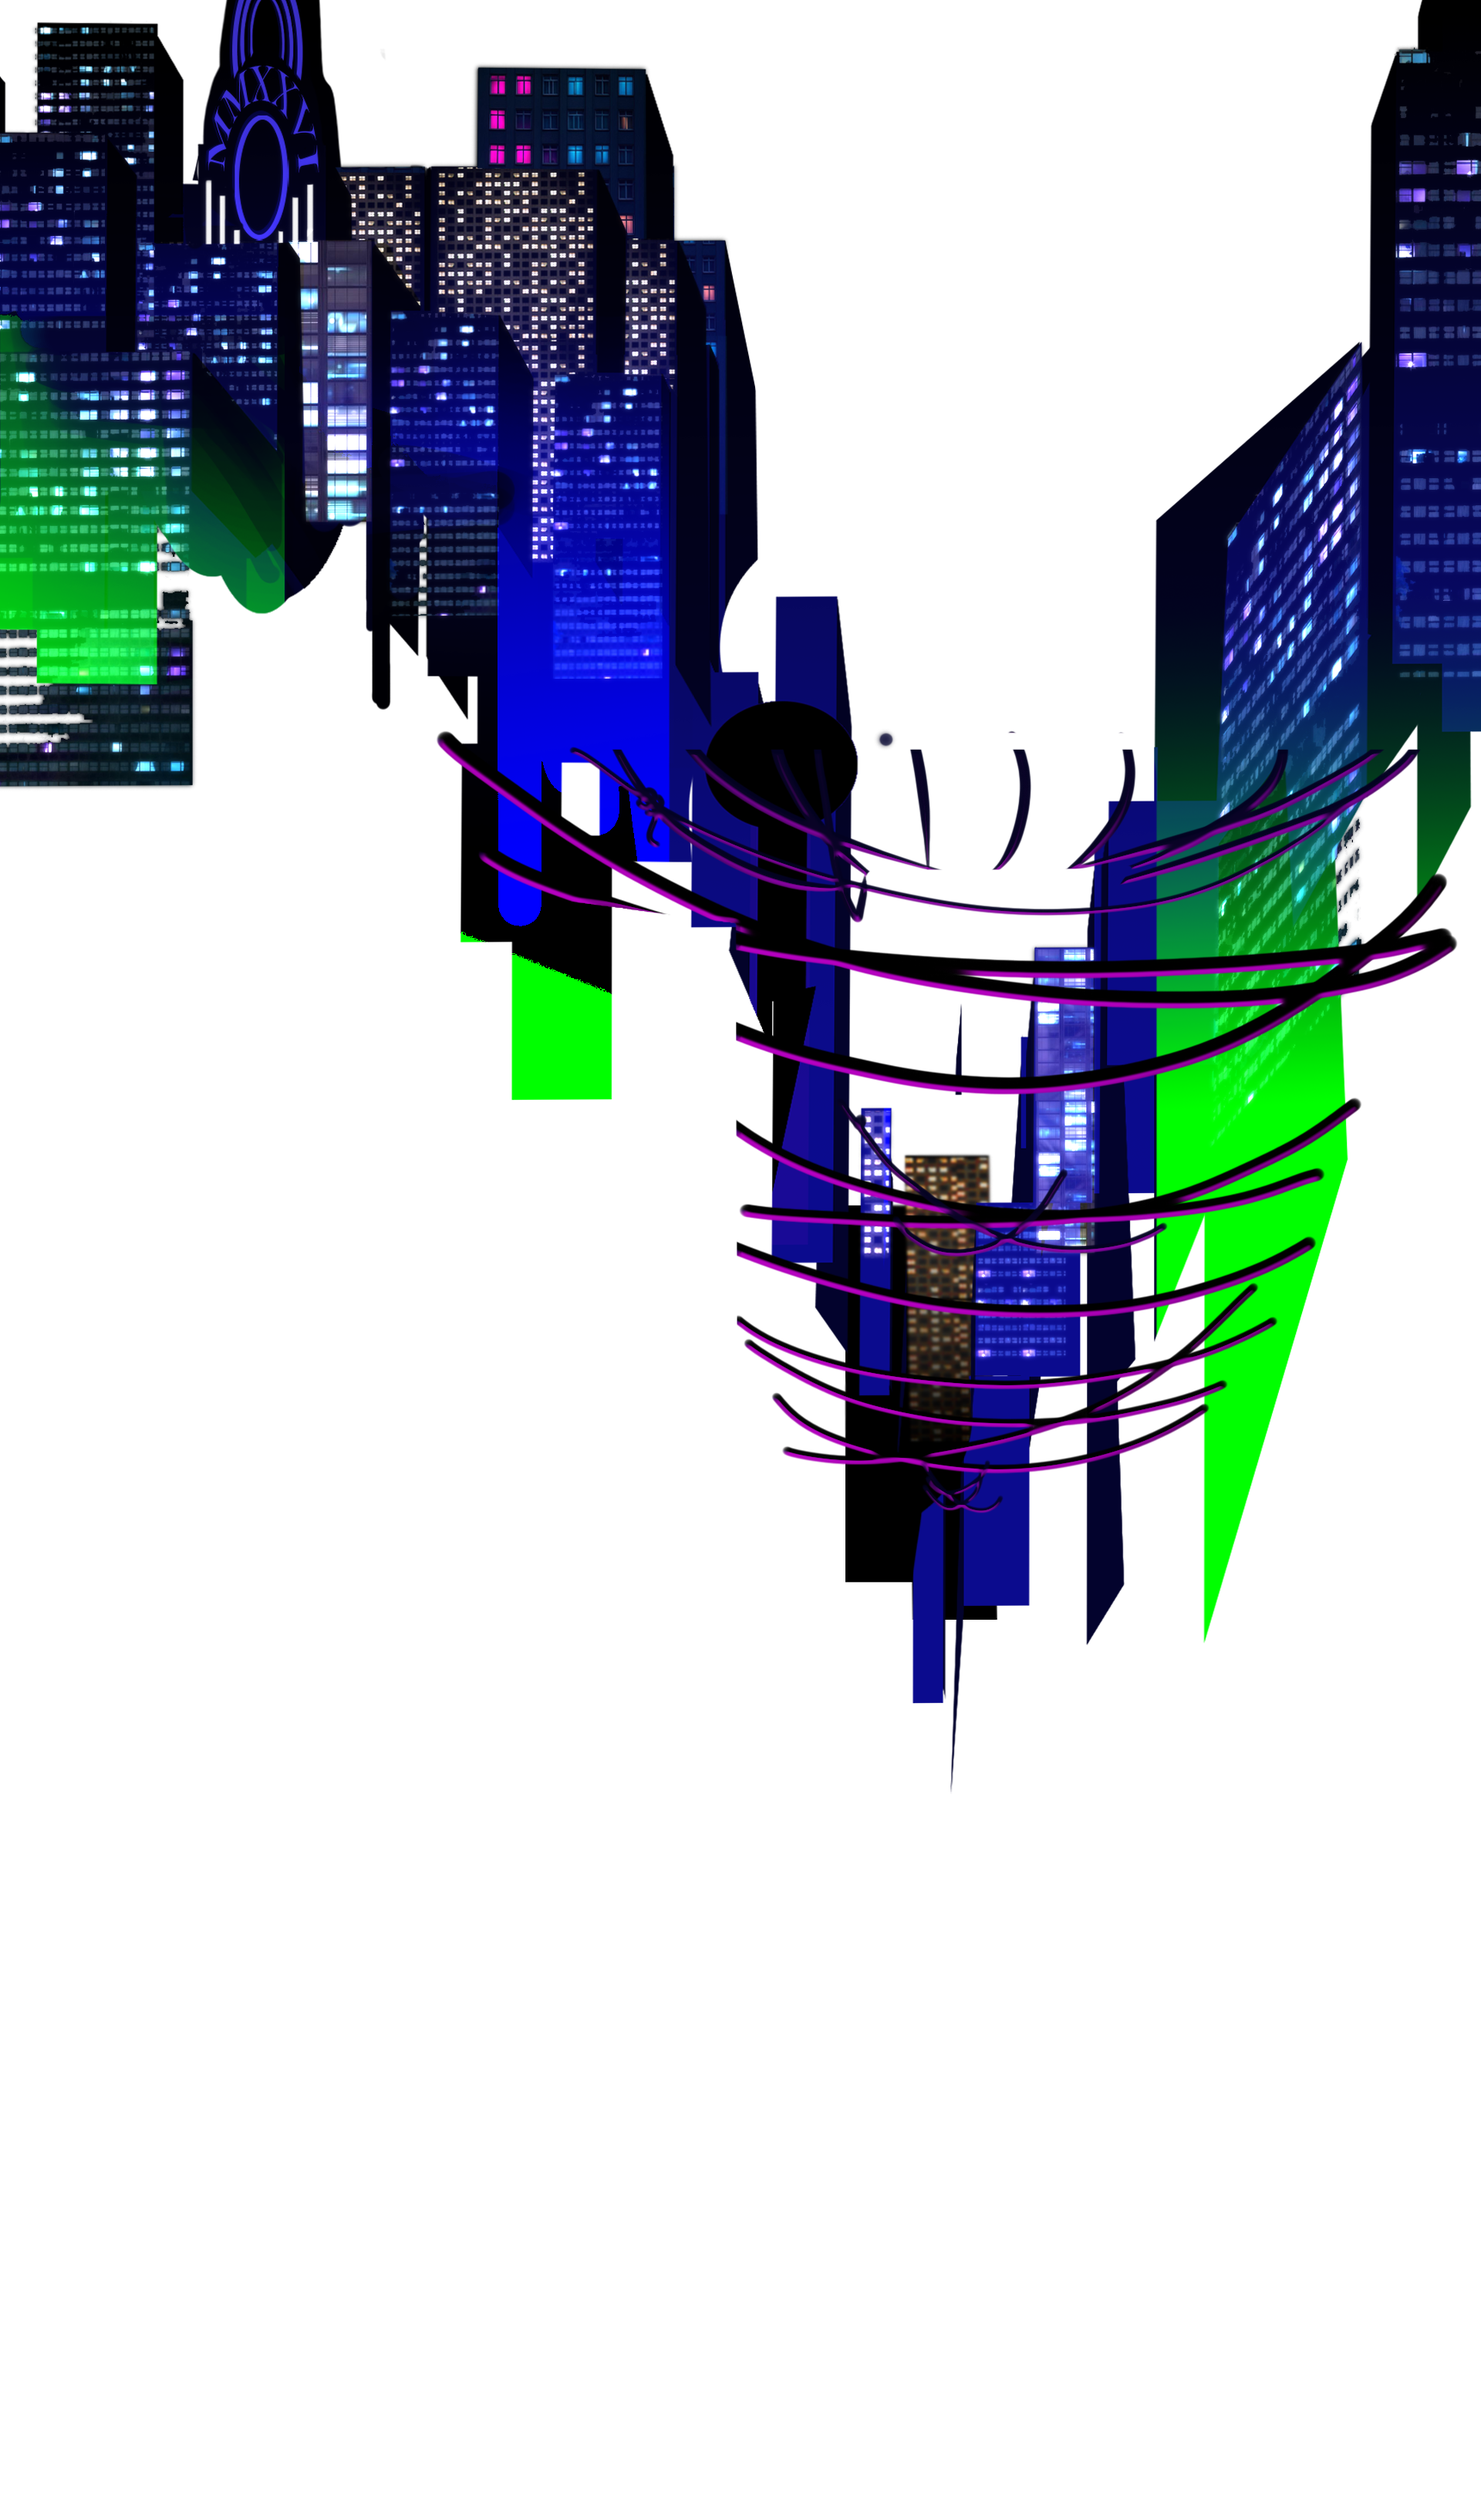
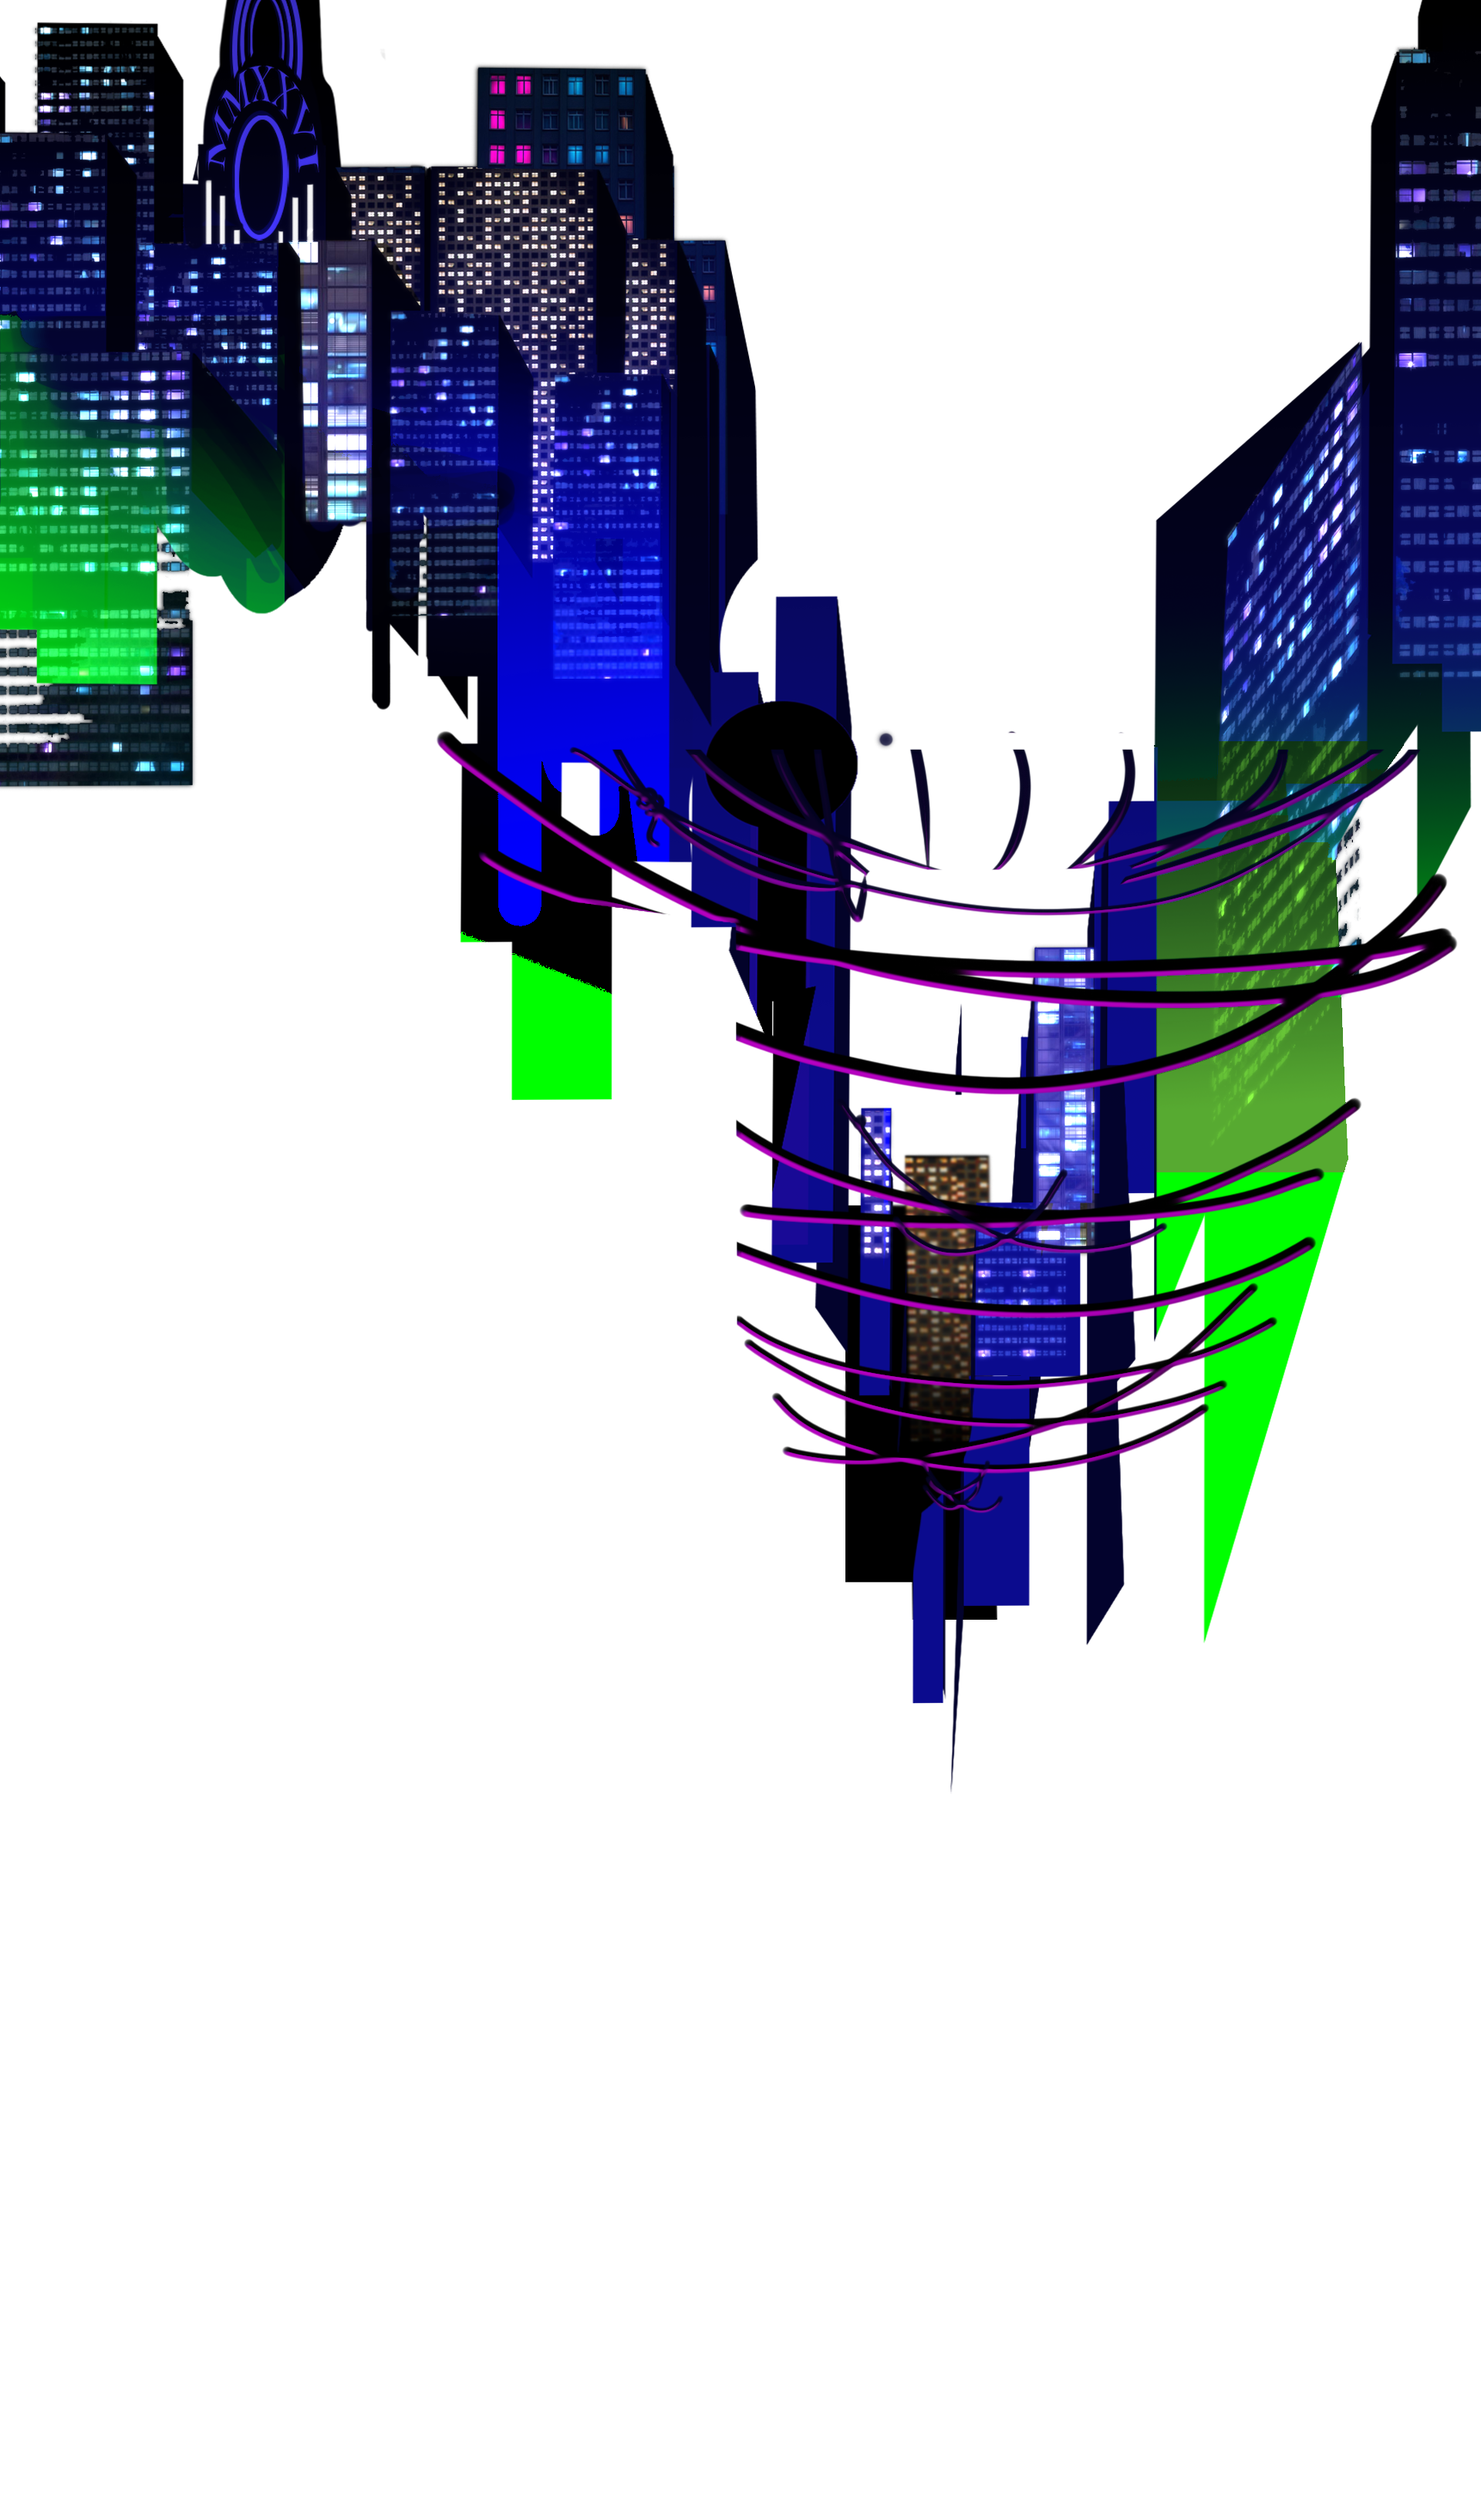
Paint the alley's green tower opaque and drop the keynote section

Changed region(s): [[0.7812, 0.2806, 0.9375, 0.4676]]

diff --git a/app/globals.css b/app/globals.css
@@ -814,85 +814,6 @@ textarea,
 }
 
 /*
- * The decorative frame around the keynote card.
- *
- * `border-image` rather than a stretched overlay. The art is 1407x941 with a
- * hollow middle and a border that is not uniform - 139px along the top, 111 at
- * the sides, 99 underneath - and its corners carry the shapes that make it read
- * as a HUD panel. Painting it as one stretched picture would smear those
- * corners and squash the hatching the moment the card was not the plate's own
- * 1.495 aspect, which it never is: the copy sets the height.
- *
- * Sliced, the four corners are placed at their own size and only the flat runs
- * between them stretch - the neon rails up the sides, which are uniform, and
- * the hatched bars top and bottom, which compress a little on a narrower card
- * and read the same.
- *
- * It is an overlay rather than a border on the content's own box, because the
- * frame's opening is not the rectangle the content box is. Along the bottom the
- * bar dips away at the left and right - 36 to 54px of clear art - and only the
- * centre tab comes up to meet the hollow. Content sized to the rectangle left a
- * strip of bare card under the picture there. Painting the frame over the top
- * lets the card fill past the hollow's edge into that dip; a border on the
- * element itself could not, since descendants paint over an element's own
- * border and the picture would have covered the bar.
- */
-.keynote-card {
-  position: relative;
-  background-color: #0b0910;
-}
-
-.keynote-frame {
-  position: absolute;
-  inset: 0;
-  pointer-events: none;
-  box-sizing: border-box;
-  border-style: solid;
-  /*
-   * WebP, and referenced straight from CSS. `border-image` cannot go through
-   * next/image, so nothing converts this on the way out - it ships exactly as
-   * it sits in public/. The PNG was 611KB for a decoration; this is 130KB with
-   * the hollow middle intact.
-   */
-  border-image-source: url("/keynote-frame.webp");
-  border-image-slice: 139 111 99 111;
-  border-image-repeat: stretch;
-  /* 0.26 of the source, so the top bar stays legible on a narrow screen. */
-  border-width: 36px 29px 26px 29px;
-}
-
-/*
- * The content's inset. Top and sides match the frame's border exactly; the
- * bottom is short by the depth of the bar's dip at that scale, so the card
- * runs down into it and the frame closes over the top.
- */
-.keynote-card > .keynote-body {
-  padding: 36px 29px 12px;
-}
-
-@media (width >= 40rem) {
-  .keynote-frame {
-    /* 0.48 */
-    border-width: 67px 53px 48px 53px;
-  }
-
-  .keynote-card > .keynote-body {
-    padding: 67px 53px 22px;
-  }
-}
-
-@media (width >= 64rem) {
-  .keynote-frame {
-    /* 0.62 - close to the scale a 1200px card gives the 1407px plate. */
-    border-width: 86px 69px 61px 69px;
-  }
-
-  .keynote-card > .keynote-body {
-    padding: 86px 69px 28px;
-  }
-}
-
-/*
  * The ground the street section's copy is read against.
  *
  * The plate is a crossing seen down a road: the left half carries the lit

diff --git a/app/page.tsx b/app/page.tsx
@@ -8,7 +8,6 @@ import {
   TracksSection,
 } from "@/components/api-sections";
 import { EventBoard } from "@/components/event-board";
-import { KeynoteSpeaker } from "@/components/keynote-speaker";
 import { ParallaxScene } from "@/components/parallax-scene";
 import { PassingTrain } from "@/components/passing-train";
 import { PreheroIntro } from "@/components/prehero-intro";
@@ -33,8 +32,8 @@ export default function Home() {
       </h1>
       {/*
         The descent runs unbroken from the skyline down to the platform, then
-        stops there. The countdown and the keynote open on the page
-        background, which is what the platform above them fades down to, and
+        stops there. The countdown opens on the page background, which is
+        what the platform above it fades down to, and
         the board below carries the descent's last plate itself - the tunnel is
         its backdrop rather than a panel of its own, so the artwork arrives
         under the content instead of ahead of it.
@@ -43,7 +42,6 @@ export default function Home() {
       <PipesBand />
       <SubwayScene />
       <SiteCountdown />
-      <KeynoteSpeaker />
       <EventBoard schedule={<ScheduleSection />} tracks={<TracksSection />} />
       <SponsorsSection />
       <FaqSection />

diff --git a/next.config.ts b/next.config.ts
@@ -9,15 +9,14 @@ import type { NextConfig } from "next";
  * files means changing its filename, or a returning visitor keeps the old one.
  *
  * Worth it here. It covers the ambient audio bed (1.4-2.1MB), eight decorative
- * MP4s, the six cursor bitmaps and the keynote's border art - all long-lived,
- * and all currently revalidated on every repeat visit.
+ * MP4s and the six cursor bitmaps - all long-lived, and all currently
+ * revalidated on every repeat visit.
  */
 const IMMUTABLE_PUBLIC_PATHS = [
   "/audio/:path*",
   "/ads/:path*",
   "/countdown/:path*",
   "/cursors/:path*",
-  "/keynote-frame.webp",
   "/button-accent.svg",
   // Season-pinned by filename, so it versions itself the way a hash would.
   "/mlh-trust-badge-2027-black.svg",
@@ -42,7 +41,7 @@ const nextConfig: NextConfig = {
      * the optimizer. 65 is for the full-bleed decorative plates, which are flat
      * illustrated art with broad gradients and hold up where a photograph
      * would not; 75 stays the default for anything the reader actually looks
-     * at (the wordmark, the keynote portrait).
+     * at (the wordmark).
      */
     qualities: [65, 75],
   },

diff --git a/components/api-sections.tsx b/components/api-sections.tsx
@@ -20,8 +20,8 @@ import { errorMessage } from "@/lib/format";
  * The page used to await all three at the top of `Home`, which meant the
  * opening artwork - the LCP, and entirely static - could not be sent until a
  * network round trip to the Go service had finished. Boundaries here let React
- * flush the whole descent (skyline down to the platform), the countdown and the
- * keynote immediately, and stream these four in behind it.
+ * flush the whole descent (skyline down to the platform) and the countdown
+ * immediately, and stream these four in behind it.
  *
  * One boundary each rather than one around all four: they are independent
  * endpoints, the schedule and tracks live in separate board tabs, and the

diff --git a/components/site-countdown.tsx b/components/site-countdown.tsx
@@ -8,9 +8,9 @@ import { AmbientVideo } from "@/components/ambient-video";
  * Countdown to the hackathon.
  *
  * TODO(design): a decorative border is coming for this section. The chamfered
- * cells below are the interim treatment - the same notch as the buttons and
- * the keynote portrait above - so the section reads as finished chrome until
- * the real frame arrives and wraps it.
+ * cells below are the interim treatment - the same notch as the buttons - so
+ * the section reads as finished chrome until the real frame arrives and wraps
+ * it.
  *
  * TODO(organizers): confirm this. It is taken from the FAQ's "November 8th and
  * 9th", which is copy carried over from the 2025 site, so the day is a

diff --git a/components/event-board.tsx b/components/event-board.tsx
@@ -15,7 +15,7 @@ import tracksPrizesFaq from "@/assets/images/backgrounds/05-tracks-prizes-faq-2x
  * onto the page background. The plate's floor fade is what makes that work:
  * the artwork is already black by its last row, so there is no edge to see.
  *
- * Both fades come with it. The ceiling fade still meets the keynote section
+ * Both fades come with it. The ceiling fade still meets the countdown section
  * above, and the floor fade still lands on the background, exactly as they did
  * when this was a panel in the descent.
  *
